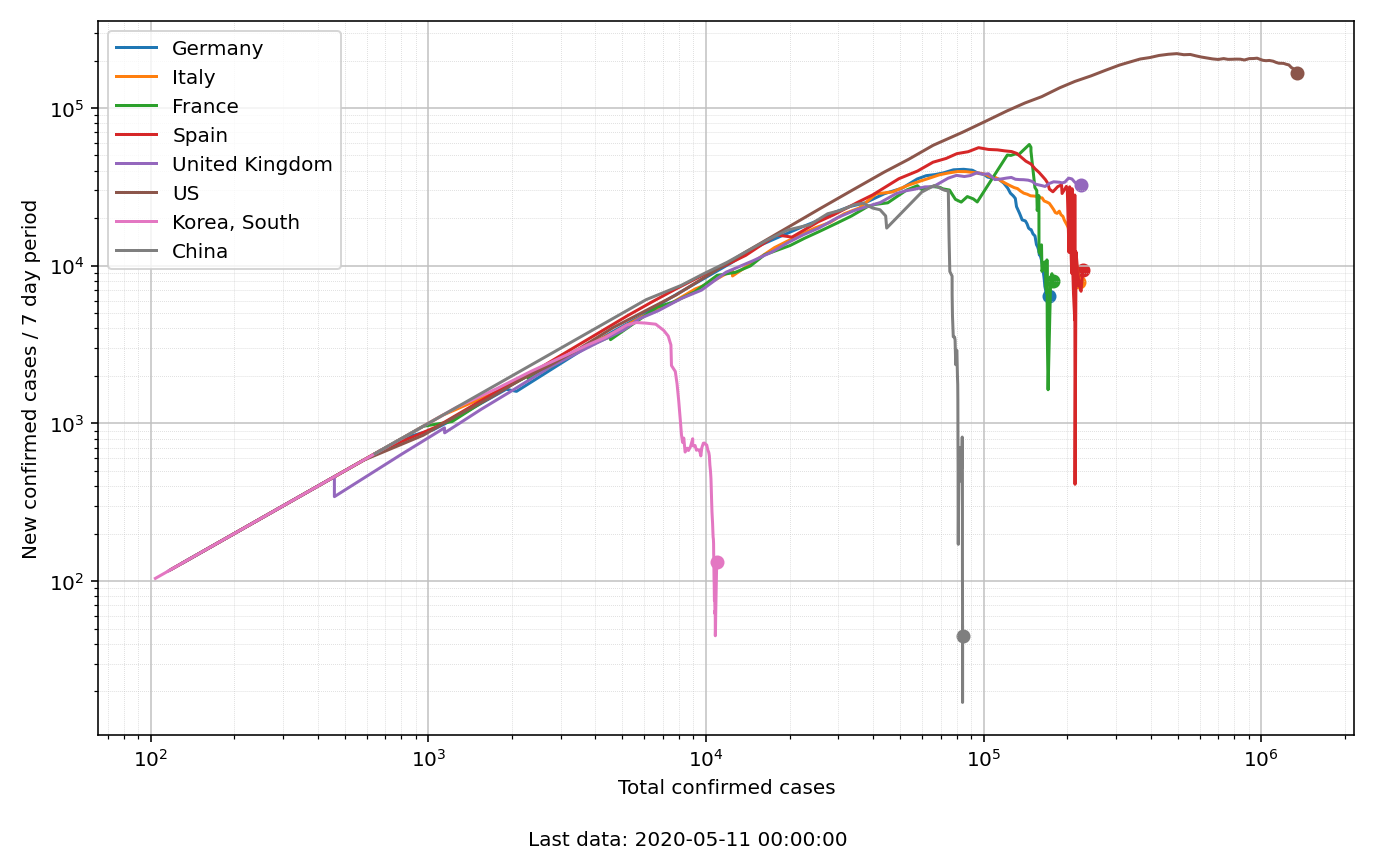
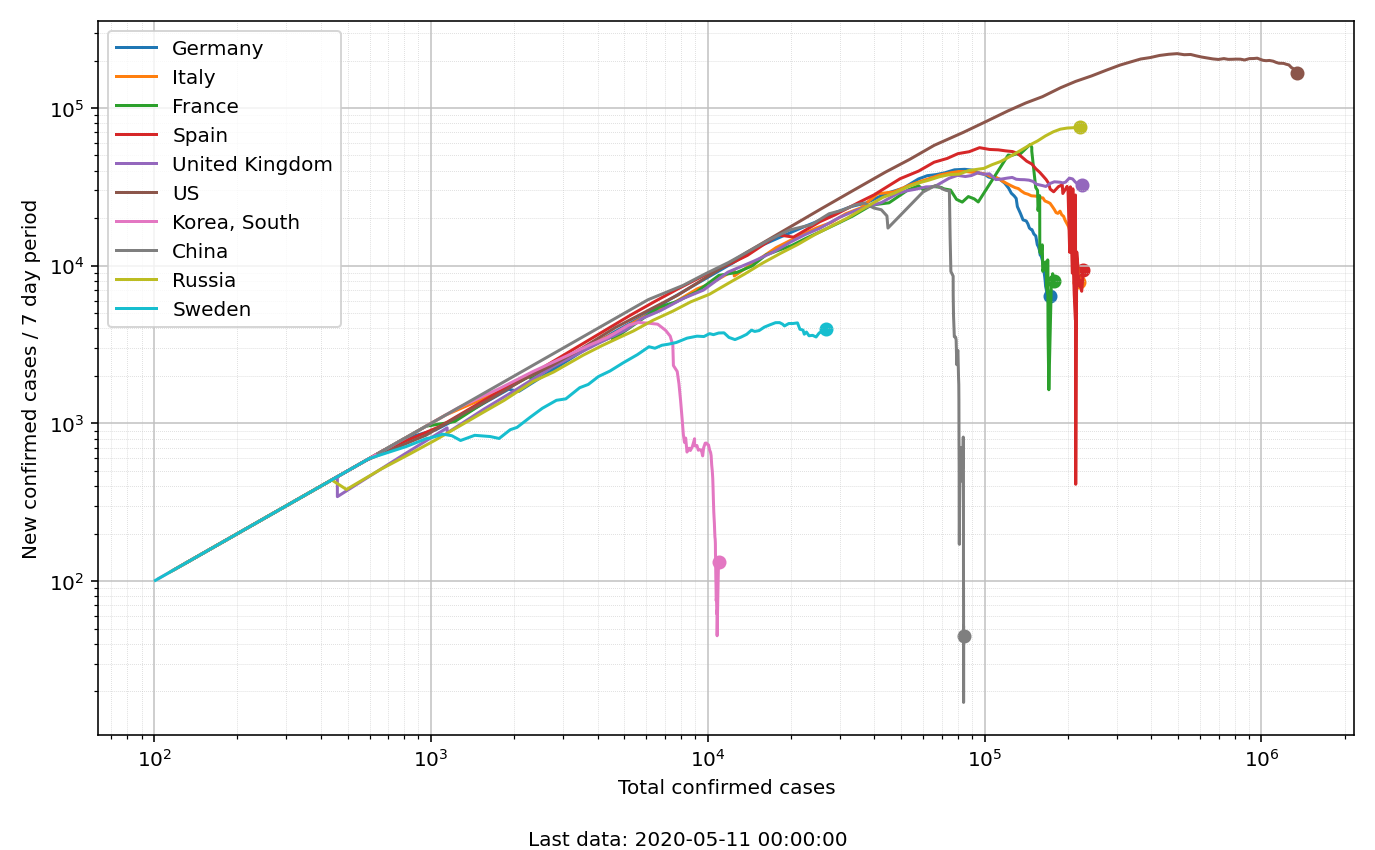
Select specific countries for trajectory plot

diff --git a/main.py b/main.py
@@ -50,6 +50,8 @@ class V:
 alpha_rows = 4
 chart_show_most_affected = 10
 chart_show_countries = ["Germany", "Italy", "France", "Spain", "United Kingdom", "US", "Korea, South", "China"]
+chart_trajectory_countries = ["Germany", "Italy", "France", "Spain", "United Kingdom", "US", "Korea, South", "China",
+                              "Russia", "Sweden"]
 # chart_show_countries = None
 chart_min_pop = 100
 chart_min_deaths = 10
@@ -418,7 +420,7 @@ class jhudata:
     def plot_trajectory(cls):
         # see: https://aatishb.com/covidtrends/
         df = cls.data
-        sel_countries = cls.select_plot_countries(df)
+        sel_countries = chart_trajectory_countries
         aff = df[df["entity"].isin(sel_countries) & (df["confirmed"] > chart_min_pop)]
         traj = aff[["entity", "date", "confirmed"]].copy()
         traj["increase"] = aff["confirmed"] - UnifiedDataModel.date_shifted_by(aff, "confirmed", days(7)).fillna(0)
